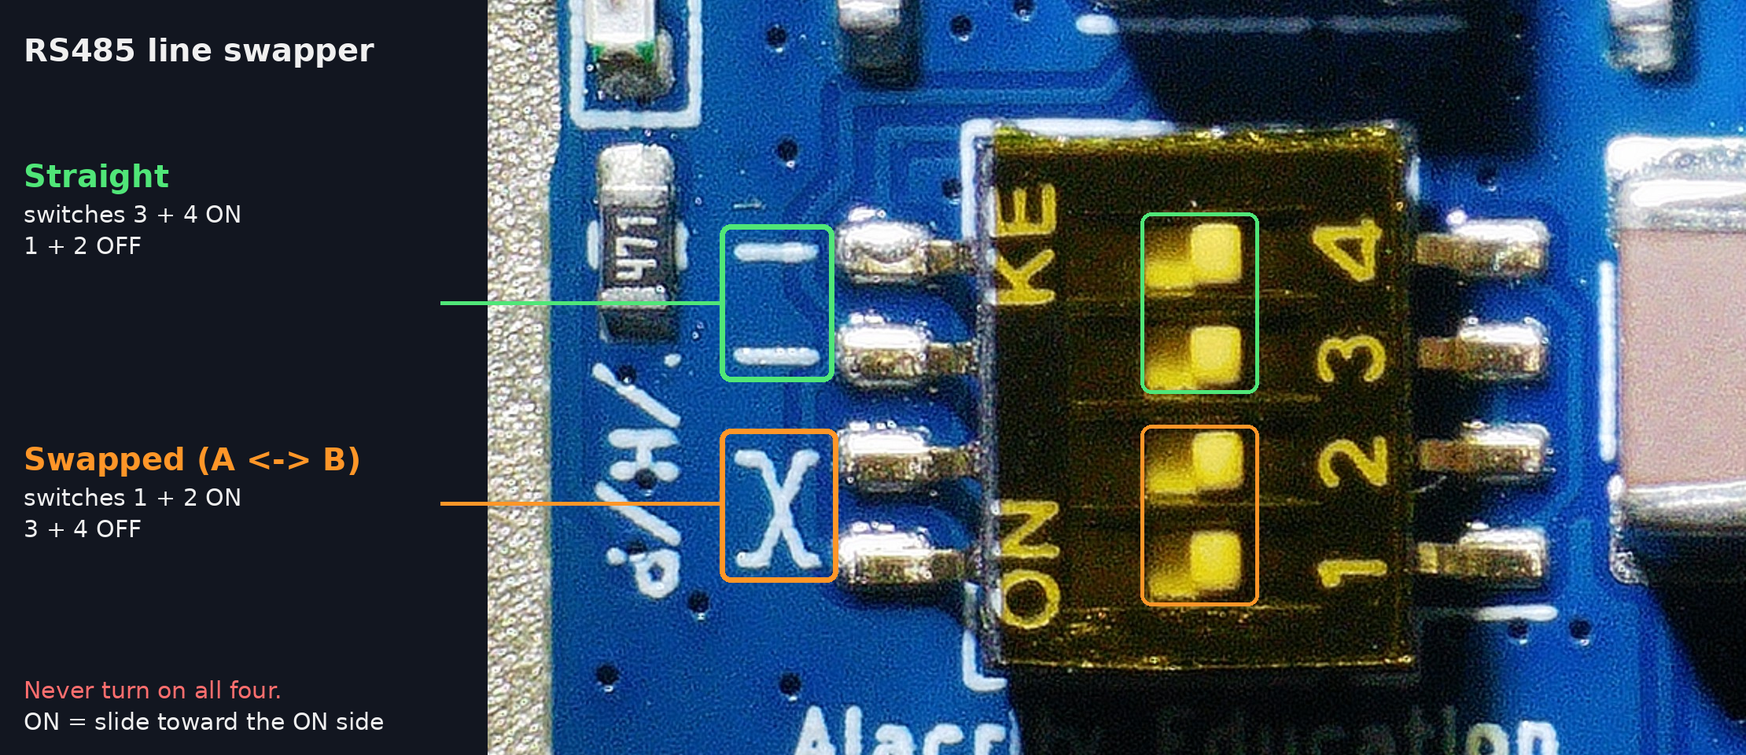
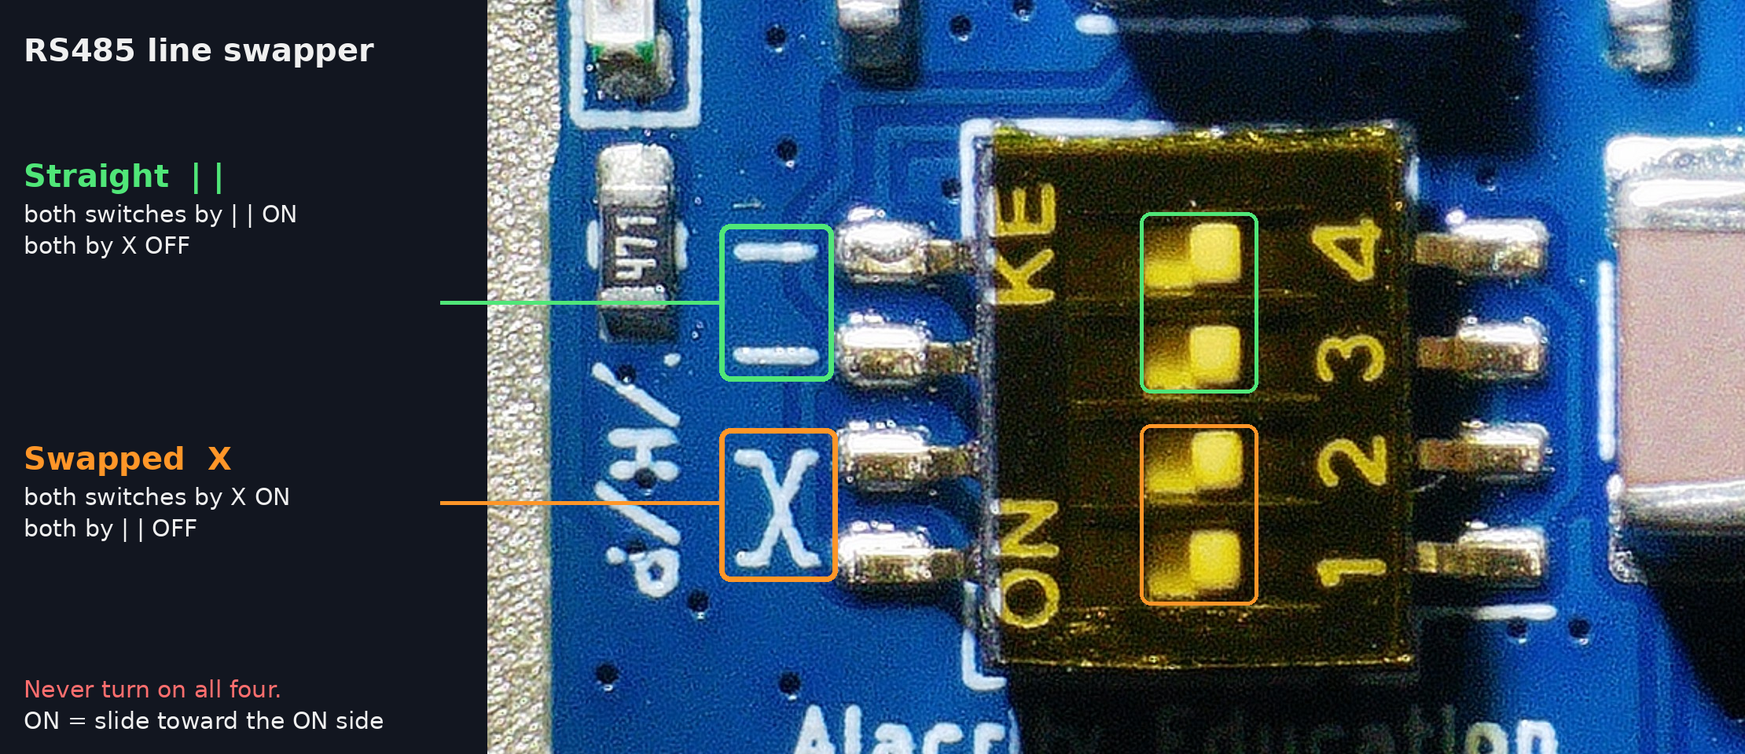
INDXWorx: annotate connector pinouts and tab side; swapper by silkscreen marks
The DIP switch can be fitted either way round, so the swapper settings
now refer to the | | and X marks instead of switch numbers.

diff --git a/INDXWorx/README.md b/INDXWorx/README.md
@@ -44,13 +44,20 @@ The board plugs into the Octopus WiFi socket. It uses these Octopus pins:
 - **RS485** (JST-PH, 2-pin): pin 1 `+`, pin 2 `-`.
 - **5V_SW** (JST-PH, 2-pin): pin 1 switched 5V, pin 2 GND.
 
+Pin 1 is on the left with the connectors at the top of the board, and the
+tab side faces the board edge (see the second gallery photo).
+
 ## RS485 line swapper
 
 The silkscreen next to the DIP switch shows the two settings:
 
-- **Straight (`| |`):** switches 3 and 4 ON, 1 and 2 OFF.
-- **Swapped (`X`):** switches 1 and 2 ON, 3 and 4 OFF. The head's two RS485
-  lines are crossed.
+- **Straight (`| |`):** the two switches next to `| |` ON, the two next to
+  `X` OFF.
+- **Swapped (`X`):** the two switches next to `X` ON, the two next to `| |`
+  OFF. The head's two RS485 lines are crossed.
+
+Go by the silkscreen marks, not the numbers on the switch: the switch can be
+fitted either way round.
 
 Use one pair at a time: turning on all four switches shorts the RS485 lines.
 
